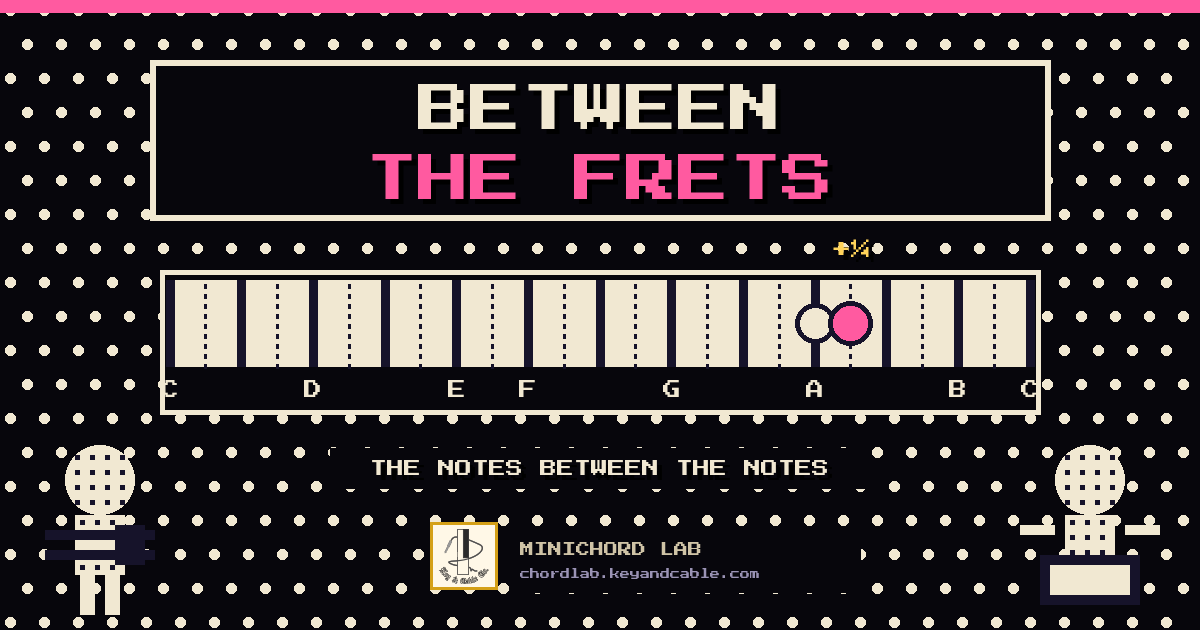
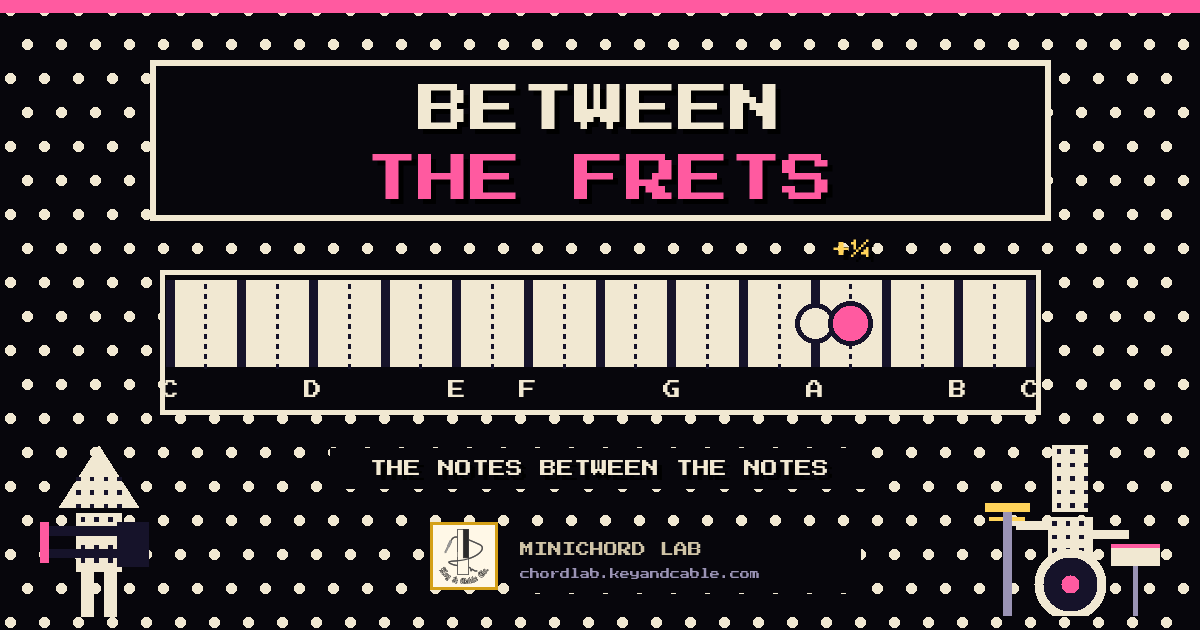
Presets don't call keys or undo games; Between the Frets on a staff
The minichord reports unprompted on a preset change, a key change combo
and a double tap; the Lab now tells them apart by what changed, so Key
Fleet takes only the combo as a call. A preset loaded mid-game used to
undo what the game had set on the minichord; the game now sets it again,
and what's given back after is the new preset's.

Between the Frets shows the notes on a treble staff too, with
Stein-Zimmermann quarter-tone accidentals; its labels sit either side
of the fretboard; in page mode what's held on the buttons sounds,
retuned, so tapping the modifier wobbles between a note and the one
between the frets. Its guitarist has a triangle head and its drummer a
tall one behind a hi-hat, snare and bass drum.

The Chopper Rescue test waits for Ben's rescue however slow the machine.

Changed region(s): [[0.8017, 0.6937, 0.9867, 0.9952], [0.0308, 0.6937, 0.1233, 0.9349]]

diff --git a/arcade/games/between-the-frets.js b/arcade/games/between-the-frets.js
@@ -59,7 +59,7 @@ function buildFretsField(box){
   const hd=document.createElement("div"); hd.className="heard"; field.appendChild(hd);
   const stage=document.createElement("div"); stage.className="frstage";
   stage.innerHTML=`<div class="frband"><span class="frplayer left">${FR_GUITARIST}</span><span class="frplayer right">${FR_DRUMMER}</span></div>
-    <div class="frboard"></div><p class="frprompt"></p><div class="frrows"></div><div class="frtime"><i></i></div>`;
+    <div class="frboard"></div><div class="frstaff"></div><p class="frprompt"></p><div class="frrows"></div><div class="frtime"><i></i></div>`;
   field.appendChild(stage);
   box.append(field);
   if(blast && blast.kind==="frets"){
@@ -78,11 +78,38 @@ function frBar(){
 function frDrawBoard(marks=[]){
   const el=blast && blast.stageEl && blast.stageEl.querySelector(".frboard"); if(!el) return;
   const W=600, x=m=>20+(m-60)/12*(W-40);
-  let h=`<svg viewBox="0 0 ${W} 70" preserveAspectRatio="none" aria-hidden="true"><rect x="10" y="18" width="${W-20}" height="34" fill="#F1E8D2"/>`;
+  let h=`<svg viewBox="0 0 ${W} 84" preserveAspectRatio="none" aria-hidden="true"><rect x="10" y="18" width="${W-20}" height="34" fill="#F1E8D2"/>`;
   for(let s=0;s<=12;s++) h+=`<rect x="${x(60+s)-1.5}" y="18" width="3" height="34" fill="#16132A"/>`;
   for(let s=0;s<12;s++) h+=`<rect x="${x(60.5+s)-.5}" y="18" width="1" height="34" fill="#16132A" opacity=".35"/>`;
   ["C","D","E","F","G","A","B","C"].forEach((l,i)=>{ const m=60+[0,2,4,5,7,9,11,12][i]; h+=`<text x="${x(m)}" y="66" text-anchor="middle" class="frlbl">${l}</text>`; });
-  marks.forEach(mk=>{ const m=60+((mk.m-60)%12+12)%12; h+=`<circle cx="${x(m)}" cy="35" r="11" fill="${mk.c}" stroke="#16132A" stroke-width="3"/>${mk.t?`<text x="${x(m)}" y="12" text-anchor="middle" class="frtag">${mk.t}</text>`:""}`; });
+  // the reference labelled above the fretboard, the test below it, so the two never collide
+  marks.forEach((mk,k)=>{ const m=60+((mk.m-60)%12+12)%12; h+=`<circle cx="${x(m)}" cy="35" r="11" fill="${mk.c}" stroke="#16132A" stroke-width="3"/>${mk.t?`<text x="${x(m)}" y="${mk.below?81:12}" text-anchor="middle" class="frtag">${mk.t}</text>`:""}`; });
+  el.innerHTML=h+"</svg>";
+}
+// The notes on a treble staff, spelled the way the questions are: a natural letter, or a letter with
+// a quarter-tone accidental (Stein–Zimmermann: the half-sharp is a sharp with one upright, the
+// half-flat a flat turned round). notes: [{m, c}], m a MIDI pitch that may end in .5.
+const FR_LETTERS=[["C",0],["D",2],["E",4],["F",5],["G",7],["A",9],["B",11]];
+function frSpell(m){
+  const oct=Math.floor(m/12)-1, pc=((m%12)+12)%12, nat=FR_LETTERS.find(([,p])=>p===pc);
+  if(nat) return {li:FR_LETTERS.indexOf(nat), oct, acc:0};
+  const up=FR_LETTERS.find(([,p])=>p===pc-.5), down=FR_LETTERS.find(([,p])=>p===pc+.5);
+  if(up) return {li:FR_LETTERS.indexOf(up), oct, acc:.5};
+  if(down) return {li:FR_LETTERS.indexOf(down), oct, acc:-.5};
+  const sh=FR_LETTERS.find(([,p])=>p===pc-1); return {li:FR_LETTERS.indexOf(sh), oct, acc:1};
+}
+function frDrawStaff(notes=[]){
+  const el=blast && blast.stageEl && blast.stageEl.querySelector(".frstaff"); if(!el) return;
+  const SPc=7, top=12, y=(li,oct)=>top+4*SPc-((li+7*oct)-(2+7*4))*SPc/2;      // E4 on the bottom line
+  const W=Math.max(170, 70+notes.length*44);
+  let h=`<svg viewBox="0 0 ${W} 58" aria-hidden="true">`;
+  for(let k=0;k<5;k++) h+=`<line x1="4" x2="${W-4}" y1="${top+k*SPc}" y2="${top+k*SPc}"/>`;
+  h+=`<text class="glyph" x="8" y="${top+3*SPc}">\uE050</text>`;
+  notes.forEach((n,i)=>{ const sp=frSpell(n.m), yy=y(sp.li,sp.oct), x=58+i*44;
+    if(sp.li+7*sp.oct<=7*4+0) h+=`<line x1="${x-8}" x2="${x+16}" y1="${top+5*SPc}" y2="${top+5*SPc}"/>`;   // middle C's ledger line
+    const acc = sp.acc===.5 ? "\uE282" : sp.acc===-.5 ? "\uE280" : sp.acc===1 ? "\uE262" : "";
+    if(acc) h+=`<text class="glyph acc" x="${x-15}" y="${yy}" style="fill:${n.c}">${acc}</text>`;
+    h+=`<text class="glyph" x="${x}" y="${yy}" style="fill:${n.c}">\uE0A2</text>`; });
   el.innerHTML=h+"</svg>";
 }
 const FRMENU_G={key:"frets", title:"BETWEEN THE FRETS",
@@ -139,7 +166,7 @@ function frAsk(){
   const legend = kind==="riff" ? ["NOTE 1: F COLUMN","NOTE 2: C","NOTE 3: G","NOTE 4: D"] : FR_ROWS[kind].map((t,i)=>`${["MAJ","MIN","7"][i]} ROW: ${t}`);
   blast.stageEl.querySelector(".frrows").innerHTML=legend.map(t=>`<span>${t}</span>`).join("");
   const say = kind==="note" ? "THE SAME, ¼ SHARP OR ¼ FLAT?" : kind==="interval" ? `${q.what} UP: IS ITS TOP NOTE IN TUNE?` : kind==="neutral" ? "MAJOR, MINOR, OR NEUTRAL: THE THIRD HALFWAY?" : "THE RIFF, THEN AGAIN: WHICH NOTE BENT?";
-  frSay(say); frDrawBoard(q.show.ref!=null ? [{m:q.show.ref, c:"#F1E8D2", t:"REF"}] : []);
+  frSay(say); frDrawBoard(q.show.ref!=null ? [{m:q.show.ref, c:"#F1E8D2", t:"REF"}] : []); frDrawStaff(frStaffNotes(q, false));
   const len=frPlay(q); q.at=performance.now()+len; q.limit=(L.fast?6000:9000)*speedMul();
 }
 function frSay(t){ const p=blast.stageEl && blast.stageEl.querySelector(".frprompt"); if(p) p.textContent=t; }
@@ -154,6 +181,25 @@ function frTick(now){
   }
   blast.raf=requestAnimationFrame(frTick);
 }
+// ---------- hearing yourself ----------
+// With the minichord's speaker off (page mode) the page sounds what's held on the chord buttons, for as
+// long as it's held, retuned: a black-key note is the modifier, so it sounds a quarter-tone from its
+// letter, up if the modifier sharpens and down if it flattens. Holding a chord and tapping the modifier
+// wobbles between the note and the one between the frets, which is what everyone does first.
+const frHeld=new Map();
+function frEcho(){
+  if(!blast || blast.kind!=="frets" || blast.instrument || !settings.sounds || !piano.ctx || blast.phase==="menu") return frSilence();
+  const ctx=piano.ctx, sharpens=(mc.params[31]??0)!==1, want=new Map();
+  for(const v of mc.voices){ const n=v.note ?? Math.round(v.pitch), pc=((n%12)+12)%12, black=[1,3,6,8,10].includes(pc);
+    want.set(`${v.ch}:${n}`, black ? n+(sharpens?-.5:.5) : n); }
+  for(const [k,o] of frHeld) if(!want.has(k)){ try{ o.g.gain.setTargetAtTime(0,ctx.currentTime,.05); o.osc.stop(ctx.currentTime+.3); }catch(e){} frHeld.delete(k); }
+  for(const [k,m] of want) if(!frHeld.has(k)){ try{
+    const g=ctx.createGain(); g.gain.value=0; g.gain.setTargetAtTime(.07,ctx.currentTime,.01); g.connect(piano.out||ctx.destination);
+    const osc=ctx.createOscillator(); osc.type="triangle"; osc.frequency.value=440*Math.pow(2,(m-69)/12); osc.connect(g); osc.start();
+    frHeld.set(k,{osc,g}); }catch(e){} }
+}
+function frSilence(){ for(const [,o] of frHeld){ try{ o.osc.stop(); }catch(e){} } frHeld.clear(); }
+mc.addEventListener("voices", frEcho);
 // ---------- answers ----------
 function fretsNote(){ if(blast && blast.kind==="frets" && blast.phase==="play" && blast.q && blast.q.step==="answer"){ const len=frPlay(blast.q); blast.q.at=performance.now()+len; } }
 function fretsChord(voices){
@@ -200,7 +246,16 @@ function frWrong(why, said){
   if(blast.lives<=0){ gameLater(()=>{ blast.phase="over"; blast.over=true; saved.best.frets=Math.max(saved.best.frets||0, blast.score); save(); frMenu(true); }, 2600); return; }
   frNext(3200);
 }
-function frReveal(q){ if(q.show.test!=null) frDrawBoard([...(q.show.ref!=null?[{m:q.show.ref, c:"#F1E8D2", t:"REF"}]:[]), {m:q.show.test, c:"#FF5AA0", t:q.off>0?"+¼":q.off<0?"−¼":q.kind==="neutral"?["MAJ","MIN","NEUTRAL"][q.answer]:"SAME"}]); }
+function frReveal(q){
+  if(q.show.test!=null) frDrawBoard([...(q.show.ref!=null?[{m:q.show.ref, c:"#F1E8D2", t:"REF"}]:[]), {m:q.show.test, c:"#FF5AA0", below:true, t:q.off>0?"+¼":q.off<0?"−¼":q.kind==="neutral"?["MAJ","MIN","NEUTRAL"][q.answer]:"SAME"}]);
+  frDrawStaff(frStaffNotes(q, true));
+}
+// what the staff shows: the reference always; the test once answered, in pink
+function frStaffNotes(q, reveal){
+  if(q.kind==="neutral"){ const r=q.ref[0][0]; return reveal ? [{m:r,c:"#F1E8D2"},{m:r+[4,3,3.5][q.answer],c:"#FF5AA0"},{m:r+7,c:"#F1E8D2"}] : [{m:r,c:"#F1E8D2"},{m:r+7,c:"#F1E8D2"}]; }
+  if(q.kind==="riff") return q.ref.map((n,i)=>({m: reveal && i===q.idx ? q.test[i][0] : n[0], c: reveal && i===q.idx ? "#FF5AA0" : "#F1E8D2"}));
+  const ref=q.show.ref; return reveal ? [{m:ref,c:"#F1E8D2"},{m:q.show.test,c:"#FF5AA0"}] : [{m:ref,c:"#F1E8D2"}];
+}
 function frNext(ms=1400){
   blast.q.step="done"; blast.q.at=0;
   if(blast.right && blast.right%6===0 && blast.level<FR_LEVELS.length-1 && blast.lives>0){ blast.level++; banner(`LEVEL ${blast.level+1}`, FR_LEVELS[blast.level].n.toUpperCase()); sfx("level"); frBar(); ms+=1200; }
@@ -208,12 +263,21 @@ function frNext(ms=1400){
 }
 // the band, in pixels: a double-necked guitarist and a drummer, in polka dots with big round heads
 const FR_DOTS=(x,y,w,h)=>{ let s=""; for(let j=y+1;j<y+h;j+=3) for(let i=x+((j-y)%6?1:2);i<x+w;i+=3) s+=`<rect x="${i}" y="${j}" width="1" height="1"/>`; return s; };
-const FR_GUITARIST=`<svg viewBox="0 0 24 34" shape-rendering="crispEdges" aria-hidden="true"><circle cx="12" cy="7" r="7" fill="#F1E8D2"/><g fill="#16132A">${FR_DOTS(6,1,12,12)}</g>
-  <rect x="7" y="14" width="10" height="12" fill="#F1E8D2"/><g fill="#16132A">${FR_DOTS(7,14,10,12)}</g><rect x="8" y="26" width="3" height="8" fill="#F1E8D2"/><rect x="13" y="26" width="3" height="8" fill="#F1E8D2"/>
-  <rect x="1" y="17" width="22" height="2" fill="#16132A"/><rect x="1" y="21" width="22" height="2" fill="#16132A"/><rect x="15" y="16" width="6" height="8" fill="#16132A"/></svg>`;
-const FR_DRUMMER=`<svg viewBox="0 0 28 34" shape-rendering="crispEdges" aria-hidden="true"><circle cx="14" cy="7" r="7" fill="#F1E8D2"/><g fill="#16132A">${FR_DOTS(8,1,12,12)}</g>
-  <rect x="9" y="14" width="10" height="10" fill="#F1E8D2"/><g fill="#16132A">${FR_DOTS(9,14,10,10)}</g>
-  <rect x="4" y="22" width="20" height="10" fill="#16132A"/><rect x="6" y="24" width="16" height="6" fill="#F1E8D2"/><rect x="0" y="16" width="7" height="2" fill="#F1E8D2"/><rect x="21" y="16" width="7" height="2" fill="#F1E8D2"/></svg>`;
+// the guitarist: a triangle head, point up, and a double neck; the drummer: a tall rectangle head,
+// behind a hi-hat, a snare and a bass drum
+const FR_GUITARIST=`<svg viewBox="0 0 26 38" shape-rendering="crispEdges" aria-hidden="true">
+  <path fill="#F1E8D2" d="M13 0L22 14H4Z"/><g fill="#16132A">${FR_DOTS(7,6,12,8)}</g>
+  <rect x="8" y="15" width="10" height="13" fill="#F1E8D2"/><g fill="#16132A">${FR_DOTS(8,15,10,13)}</g>
+  <rect x="9" y="28" width="3" height="10" fill="#F1E8D2"/><rect x="14" y="28" width="3" height="10" fill="#F1E8D2"/>
+  <rect x="0" y="18" width="24" height="2" fill="#16132A"/><rect x="0" y="23" width="24" height="2" fill="#16132A"/><rect x="17" y="17" width="7" height="10" fill="#16132A"/>
+  <rect x="0" y="17" width="2" height="9" fill="#FF5AA0"/></svg>`;
+const FR_DRUMMER=`<svg viewBox="0 0 40 38" shape-rendering="crispEdges" aria-hidden="true">
+  <rect x="15" y="0" width="8" height="15" fill="#F1E8D2"/><g fill="#16132A">${FR_DOTS(15,0,8,15)}</g>
+  <rect x="14" y="16" width="10" height="9" fill="#F1E8D2"/><g fill="#16132A">${FR_DOTS(14,16,10,9)}</g>
+  <rect x="7" y="17" width="7" height="2" fill="#F1E8D2"/><rect x="24" y="19" width="8" height="2" fill="#F1E8D2"/>
+  <rect x="0" y="13" width="10" height="2" fill="#FFD35A"/><rect x="1" y="16" width="8" height="1" fill="#FFD35A"/><rect x="4" y="15" width="2" height="23" fill="#9A93B5"/>
+  <rect x="28" y="22" width="11" height="5" fill="#F1E8D2"/><rect x="28" y="22" width="11" height="1" fill="#FF5AA0"/><rect x="33" y="27" width="1" height="11" fill="#9A93B5"/>
+  <circle cx="19" cy="31" r="7" fill="#16132A" stroke="#F1E8D2" stroke-width="2"/><circle cx="19" cy="31" r="2" fill="#FF5AA0"/></svg>`;
 
 // ---------- Between the Frets' demo ----------
 function frDemo(){
@@ -239,6 +303,7 @@ function frDemo(){
 }
 function endFrDemo(token){
   if(!blast || blast.demo!==token) return;
+  frDrawStaff();
   stopDemo(); blast.phase="menu"; frDrawBoard(); frSay(""); const r=blast.stageEl&&blast.stageEl.querySelector(".frrows"); if(r) r.innerHTML="";
   if(blast.overlay) blast.overlay.hidden=false;
   cabRestart();

diff --git a/tests/arcade/chopper-rescue.test.js b/tests/arcade/chopper-rescue.test.js
@@ -8,7 +8,7 @@ const t=require("./harness").load("chopper-rescue");
   await sleep(150); t.connect({extra:{7:17}}); await sleep(100);               // firmware whose knobs can send MIDI
   check("the game switches the knobs on, so a knob can turn the dial", t.mc.params[238]===1);
   const a=await t.start(4); await sleep(1500);
-  const texts=[]; let decoysShown=true, tunedEach=true, signalOrder=true;
+  const texts=[]; let decoysShown=true, tunedEach=true, signalOrder=true, benSeen=false, benCard=false;
   const tuneIn=async how=>{ for(let k=0;k<80 && !a.tune;k++) await sleep(100); const tn=a.tune; if(!tn) return false;
     if(how==="harp") note(tn.pc);
     else if(how==="knob") knob(Math.round(tn.target*127), 20);                  // any knob turns the dial
@@ -28,13 +28,14 @@ const t=require("./harness").load("chopper-rescue");
     if(i===1){ note((t.PC[sg.tones[0]]+1)%12); await sleep(20); check("a wrong note isn't their signal", /NOT THEIR SIGNAL/.test(t.heard()), t.heard()); }
     // this level's signal starts from the 3rd: the first inversion
     const want=w.eval("spellChord")(c.legs[c.legs.length-1].root, c.legs[c.legs.length-1].q); if(sg.tones[0]!==want[1]) signalOrder=false;
-    const wasBen=a.lastBen;
     for(const n of sg.tones){ note(t.PC[n]); await sleep(20); }
-    if(i===3) a.benNext=true;                                                  // the next call: Ben
-    if(i===4){ await sleep(1400); check("now and then the hikers turn out to be Ben, and he's rescued", wasBen && a.benDone, `score ${a.score}`);
-      check("his card holds in the middle of the field", /MERCI, BEN/.test((t.d.querySelector(".chbencard")||{}).textContent||"")); }
+    if(i===3) a.benNext=true;                                                  // a call soon: Ben
+    if(a.lastBen && !benSeen){ for(let k=0;k<40 && !a.benDone;k++) await sleep(50);     // this was Ben's call: his rescue lands a moment after
+      benSeen=a.benDone; await sleep(900); benCard=/MERCI, BEN/.test((t.d.querySelector(".chbencard")||{}).textContent||""); }
     await sleep(2200);
   }
+  check("now and then the hikers turn out to be Ben, and he's rescued", benSeen, `score ${a.score}`);
+  check("his card holds in the middle of the field", benCard);
   check("every call tuned in, by the harp, the keys or a knob", tunedEach && texts.length>=8, `${texts.length} tuned`);
   check("the top level's signal starts from the 3rd", signalOrder);
   check("every call answered is a rescue", a.rescues>=8, `${a.rescues} rescues of ${texts.length}`);

diff --git a/practice/room.js b/practice/room.js
@@ -7,18 +7,21 @@
 
 // ---------- borrowing settings, and always giving them back ----------
 const borrowed={};
+// what the games have set, so it can be set again if a preset is loaded on the instrument mid-game
+const wanted={};
 // everything the current round has set, so switching games never gives back what the new
 // game just borrowed (the key signature, Barry Harris mode, slash voice…)
 const roundBorrows=new Set();
 /** set addr to value for this round: borrowed if it differs, and kept if an earlier round already set it */
 function ensure(addr,value){
   if(!canWrite()) return;
+  wanted[addr]=value;
   if((mc.params[addr]??0)!==value) borrow(addr,value);
   else if(addr in borrowed) roundBorrows.add(addr);
 }
 function borrow(addr,value){
   if(!canWrite()) return;
-  roundBorrows.add(addr);
+  roundBorrows.add(addr); wanted[addr]=value;
   if(!(addr in borrowed)) borrowed[addr]=mc.params[addr] ?? 0;
   mc.writeParam(addr,value);
   $("restore").hidden=false; mine();
@@ -38,6 +41,7 @@ function modTap(){
 function restoreAll(){
   const back=Object.entries(borrowed);
   for(const [a] of back) delete borrowed[a];            // clear first, so the panel redraws without them
+  for(const a of Object.keys(wanted)) delete wanted[a];
   for(const [a,v] of back) mc.writeParam(+a, v);
   $("restore").hidden=true; stopTones(); mine();
   if(mc.out) setTimeout(()=>mc.requestDump(),200);
@@ -805,6 +809,10 @@ function mine(){
 
 // ---------- connection ----------
 mc.addEventListener("device", ()=>{
+  // A preset loaded on the instrument mid-game (its preset buttons) sets everything anew: what the
+  // game had set goes back on, and the new preset's own values become what's given back after
+  if(mc.presetLoaded && Object.keys(wanted).length && canWrite()){
+    for(const [a,v] of Object.entries(wanted)){ if(mc.params[a]!==v){ borrowed[a]=mc.params[a]; roundBorrows.add(+a); mc.writeParam(+a, v); } } }
   if(q && settings.modTap!=="off" && canWrite() && mc.params[200]!==31) modTap();   // set it up once connected
   if(blast && blast.kind==="command") commandDevice();
   else if(blast && blast.kind==="snake") snDevice();

diff --git a/core/minichord.js b/core/minichord.js
@@ -56,6 +56,10 @@ export class Minichord extends EventTarget {
   get keyIndex(){ return this.params[35] ?? null; }
   get keyName(){ return this.keyIndex==null ? null : KEY_NAMES[this.keyIndex] ?? null; }
   get keyFifths(){ return this.keyIndex==null ? 0 : (KEY_FIFTHS[this.keyIndex] ?? 0); }
+  /** the dump just in was the key change combo reporting a key picked (the test firmware sends one per pick) */
+  get comboPick(){ return !!this.unasked && [...(this.changed||[])].every(a=>a===35); }
+  /** the dump just in was a preset being loaded on the instrument (its preset buttons) */
+  get presetLoaded(){ return !!this.unasked && (this.changed||new Set()).size>3; }
   get temperament(){ const v=this.params[237]; return v==null ? null : temperIndex(v, this.params[7]??0); }   // the Lab's numbering
   /** the number to write to address 237 for a temperament in the Lab's list (null: not on this firmware) */
   temperamentValue(index){ return temperValue(index, this.params[7]??0); }
@@ -133,7 +137,11 @@ export class Minichord extends EventTarget {
     // a dump nobody asked for: the minichord reporting a change made on the instrument itself,
     // such as the key change combo (the test firmware reports every key picked that way)
     this.unasked = !(this._asked>0); if(this._asked>0) this._asked--;
+    // what changed since the last dump: an unasked one that changes only the key signature (or
+    // nothing) is the key change combo; one that changes a lot is a preset loaded on the instrument
+    const had=Object.keys(this.params).length ? [...Array(256).keys()].map(i=>this.params[i]) : null;   // nothing to compare the first time
     for(let i=0;i<256;i++) this.params[i]=d[1+2*i]+128*d[2+2*i];
+    this.changed = new Set(had ? [...Array(256).keys()].filter(i=>i!==7 && had[i]!==this.params[i]) : []);
     if(this.params[110]===1 && !this.zone.known){ this.zone={type:"lower", members:this.params[108]===1?15:4, known:true}; }
     this.dispatchEvent(new Event("device"));
   }

diff --git a/tests/arcade/key-fleet.test.js b/tests/arcade/key-fleet.test.js
@@ -43,6 +43,13 @@ const t=require("./harness").load("key-fleet");
   mc._asked=0; const dump=[0xF0]; for(let k=0;k<256;k++){ const v=mc.params[k]||0; dump.push(v&127, v>>7); } dump.push(0xF7); dump[71]=0; dump[72]=0;
   mc._dump(dump); await sleep(100);
   check("the combo picking C (reported unasked) calls C major", a.ships[0].sunk, t.heard());
+  // a preset loaded on the instrument reports unasked too, with lots changed (its key among them):
+  // that's no call, and the game's key goes back to C
+  a.ships=[{kind:"major", cells:[[0,0],[1,0],[2,0]], name:"G MAJOR", detail:"", tonic:"G", minor:false, hits:new Set(["1,0"]), sunk:false, misses:0}];
+  const pd=[0xF0]; for(let k=0;k<256;k++){ let v=mc.params[k]||0; if(k>=20 && k<40) v=(v+3)%100; if(k===35) v=1; pd.push(v&127, v>>7); } pd.push(0xF7);
+  const heardBefore=t.heard(); mc._asked=0; mc._dump(pd); await sleep(100);
+  check("a preset loaded on the instrument isn't a key call", !a.ships[0].sunk && t.heard()===heardBefore, t.heard());
+  check("and the game's key goes back to C after it", mc.params[35]===0);
   // the wider seas: a line of fifths, every key on it, no two keys in a fleet that sound the same
   a.level=10; let twins=0, cols=0, ok=0;
   for(let n=0;n<80;n++){ sb.kfWave(); cols=w.eval("KF_COLS.length"); const homes=a.ships.map(s=>t.PC[s.tonic]); if(new Set(homes).size<homes.length) twins++; if(a.ships.length===3) ok++; }

diff --git a/practice/index.html b/practice/index.html
@@ -637,6 +637,12 @@ html.arcadepage .gamebar{align-items:flex-end}
 .frboard svg{display:block;width:100%;height:auto}
 .frboard .frlbl{font:400 9px "Press Start 2P",monospace;fill:#F1E8D2}
 .frboard .frtag{font:400 8px "Press Start 2P",monospace;fill:#FFD35A}
+.frstaff{width:min(360px,70%);background:#07060C;border:3px solid #F1E8D2;box-shadow:6px 6px 0 #000;padding:2px 6px}
+.frstaff:empty{display:none}
+.frstaff svg{display:block;width:100%;height:auto}
+.frstaff line{stroke:#F1E8D2;stroke-width:1}
+.frstaff .glyph{fill:#F1E8D2;font-family:"Minichord Lab Music";font-size:28px}
+.frplayer.right svg{width:92px}
 .frprompt{margin:0;font:400 .8rem/1.8 "Minichord Lab Accidentals","Press Start 2P",monospace;color:#F1E8D2;text-align:center;text-shadow:2px 2px 0 #000;max-width:60ch;min-height:1.8em;background:#07060C;padding:4px 10px}
 .frrows{display:flex;flex-wrap:wrap;justify-content:center;gap:8px}
 .frrows span{font:400 .5rem "Minichord Lab Accidentals","Press Start 2P",monospace;color:#16132A;background:#F1E8D2;border:2px solid #000;padding:6px 8px}

diff --git a/arcade/games/key-fleet.js b/arcade/games/key-fleet.js
@@ -103,7 +103,9 @@ function kfDevice(){
   // a key signature set with the key change combo calls that key (major, or its relative minor)
   // (a key the minichord was already in counts too, when the minichord reports the combo on its own:
   // that's how C major and A minor, the chart's own signature, get called)
-  const picked = mc.unasked && blast.phase==="play"; mc.unasked=false;
+  // (only the combo: a preset loaded, or a double tap, reports unasked too, and isn't a call)
+  const picked = mc.comboPick && blast.phase==="play"; mc.unasked=false;
+  if(mc.presetLoaded) return;                                                  // its key goes back to C with the game's other settings
   if(hasSetting(35) && mc.params[35]!=null && (mc.params[35]!==keyIndexOf(0) || picked)){
     const idx=mc.params[35], f=KEY_FIFTHS[idx] ?? 0, maj=mod(7*f,12), min=mod(maj+9,12), name=mc.keyName||"?";
     if(idx!==keyIndexOf(0)) borrow(35, keyIndexOf(0));                           // back to the plain buttons

diff --git a/tests/arcade/chord-breakout.test.js b/tests/arcade/chord-breakout.test.js
@@ -38,6 +38,10 @@ const t=require("./harness").load("chord-breakout");
   // what bricks are worth: Chord Invaders' ladder
   const w1=t.w.eval("boPoints({q:'',root:'C'})"), w2=t.w.eval("boPoints({q:'m7',root:'C'})"), w3=t.w.eval("boPoints({q:'',root:'F♯'})");
   check("bricks are worth Chord Invaders' points: more for richer chords and the modifier", w2>w1 && w3>w1, `${w1} ${w2} ${w3}`);
+  // a preset loaded on the instrument mid-game: the game switches its knobs back on
+  const pd=[0xF0]; for(let k=0;k<256;k++){ let v=t.mc.params[k]||0; if(k>=40 && k<60) v=(v+5)%100; if(k===238) v=0; pd.push(v&127, v>>7); } pd.push(0xF7);
+  t.mc._asked=0; t.mc._dump(pd); await sleep(80);
+  check("after a preset change on the instrument, the knobs are switched back on", t.mc.params[238]===1);
   sb.restoreAll();
   check("leaving switches the knobs back off", t.mc.params[238]===0);
   t.done();
